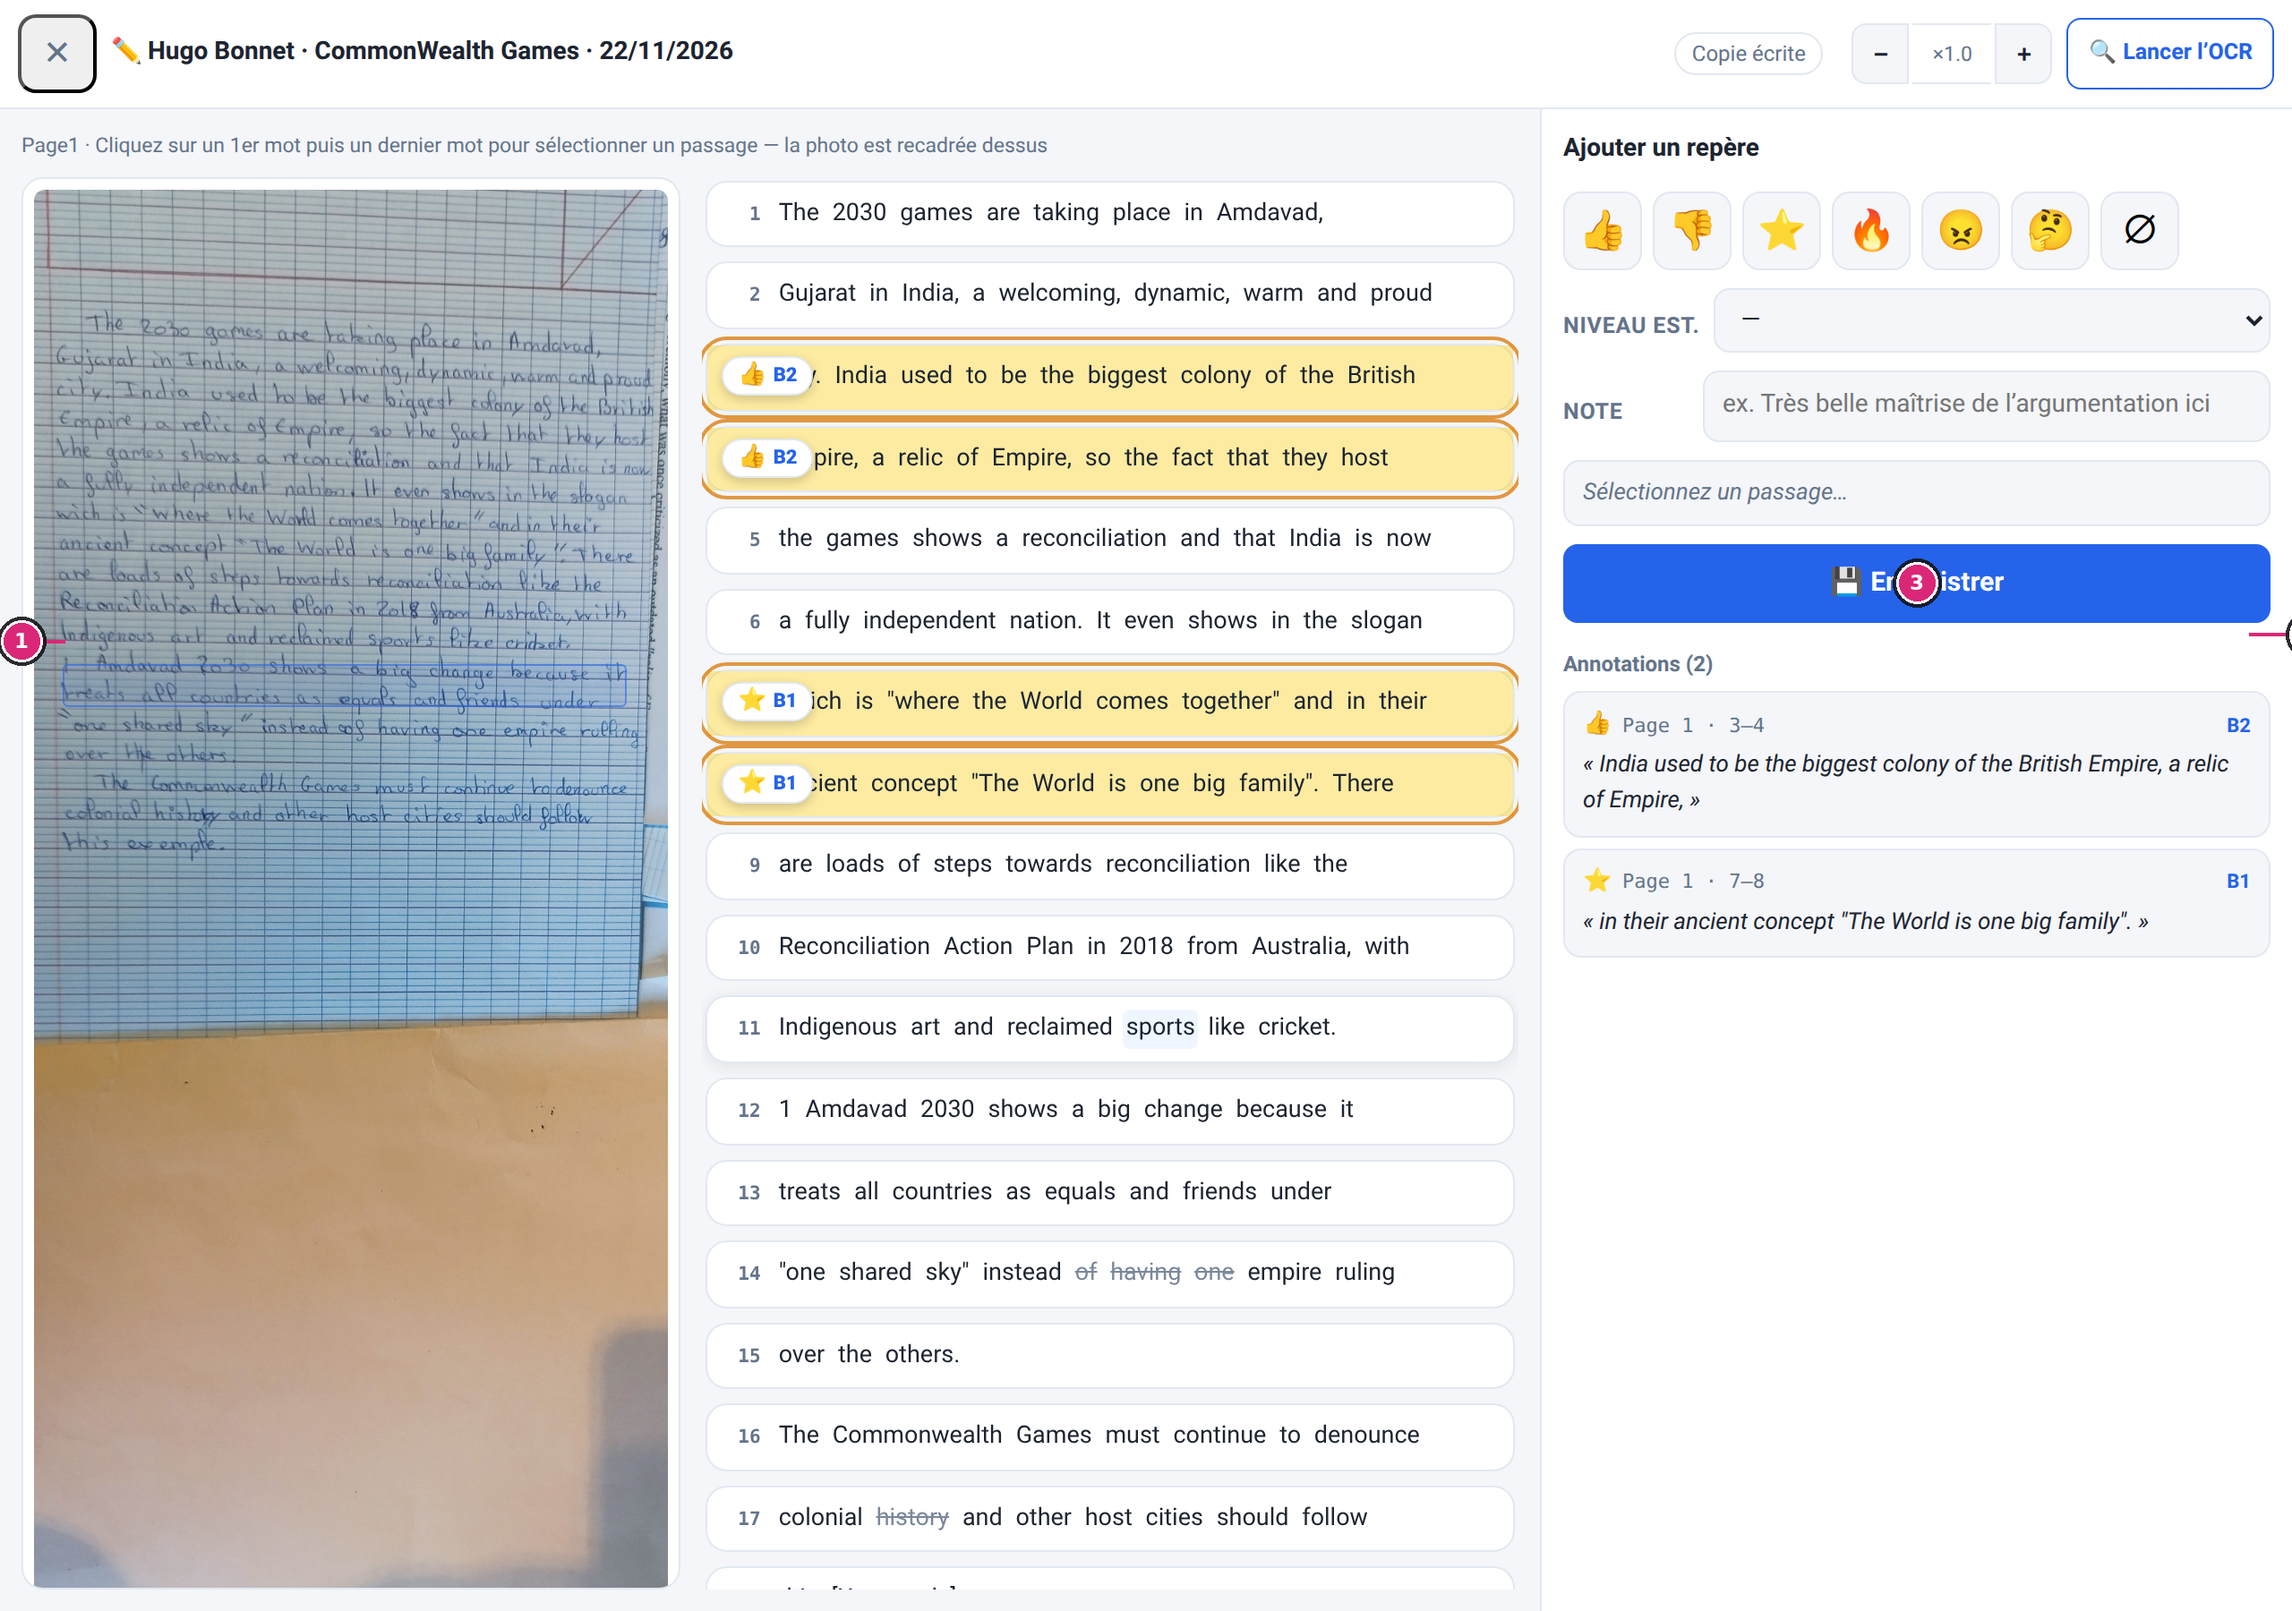
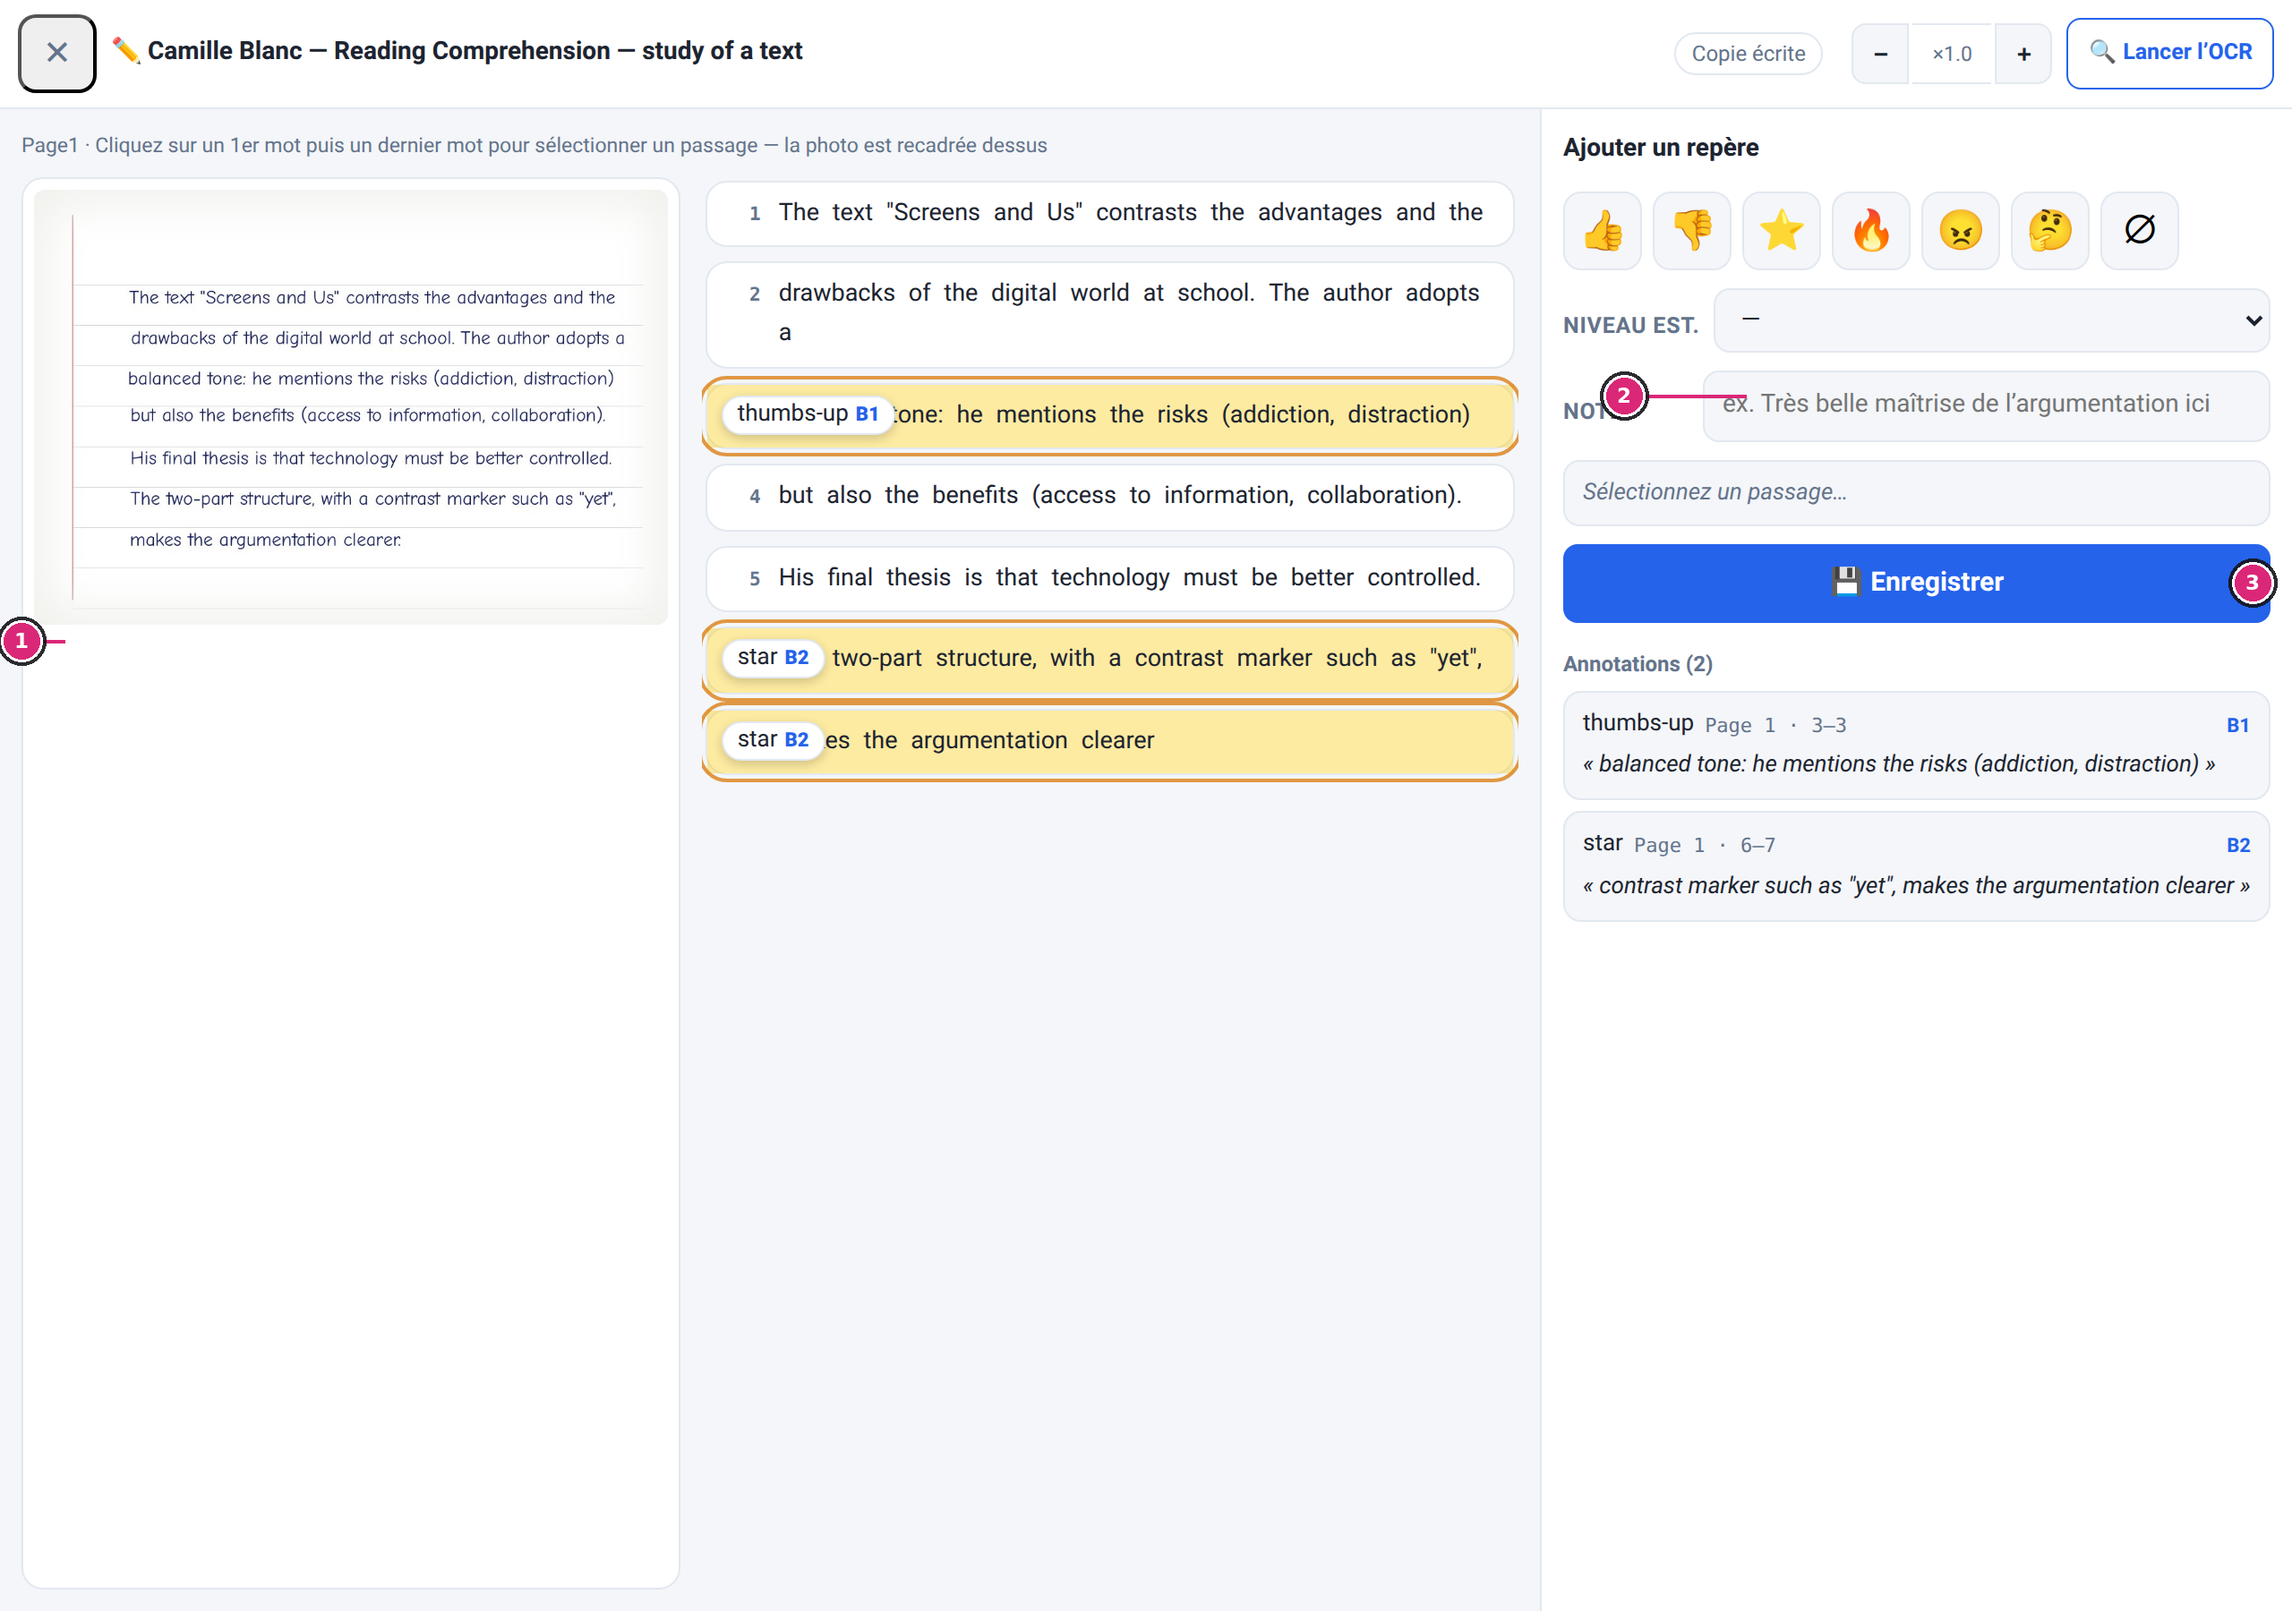
Userguide §7 : capture Annoter sur copie synthétique (plus de vraie copie élève)
La copie d'écran du §7 « Annoter » montrait une vraie photo manuscrite
d'élève (analyse 660). Remplacée par la copie de fixture synthétique
(Camille Blanc, analyse 482 / sub 492, page quadrillée rendue PIL) qui ne
contient aucun travail d'élève réel.

- scripts/ug_capture.py : le §15 deep-link vers #history/482 au lieu de 660.
- 2 repères de démo seedés via API (seed_annotate_demo, idempotent) pour que
  le panneau Annoter montre des lignes surlignées + "Annotations (2)" :
  👍 B1 sur "balanced tone…" et ⭐ B2 sur "contrast marker…".
- 2 nouveaux modes de badge ('below', 'edge') + re-pointage des badges 1/2/3
  du §7 sur des zones libres (le badge 2 était rogné au bord droit, le 3
  recouvrait le label "Enregistrer").

Le site (GitHub Pages) se reconstruit et redéploie automatiquement sur push.

diff --git a/scripts/ug_capture.py b/scripts/ug_capture.py
@@ -45,6 +45,42 @@ def find_font():
 FONT = find_font()
 
 
+def seed_annotate_demo(ctx, sub_id: int) -> int:
+    """Idempotently create the 2 demo annotations shown in the userguide §7
+    shot (analysis 482 / submission 492 = synthetic fixture copy).
+
+    The docs must NOT ship a real student's handwritten photo, so the §7
+    screenshot uses the synthetic fixture copy. That shot only looks right
+    when 2 repères are already saved (highlighted lines + a non-empty
+    "Annotations (2)" list). This seeds them via the app's own API so the
+    capture stays reproducible after a DB reset. No-op when >=2 annotations
+    already exist on the submission.
+
+    Spans are word-index based (global index into the page's word list, same
+    order as the frontend tokenization); the quote is derived server-side.
+    Returns the annotation count afterwards.
+    """
+    api = ctx.request
+    r = api.get(f"{BASE}/api/submissions/{sub_id}/annotations")
+    if r.status != 200:
+        return 0
+    cur = len(r.json().get("annotations", []))
+    if cur >= 2:
+        return cur
+    demo = [
+        {"span": {"page": 0, "start_word": 21, "end_word": 28}, "sticker": "thumbs-up",
+         "level": "B1", "note": "Très belle nuance : « balanced tone » est bien repéré et nuancé."},
+        {"span": {"page": 0, "start_word": 52, "end_word": 60}, "sticker": "star",
+         "level": "B2", "note": "Belle analyse de la structure : le connecteur « yet » est identifié et justifié."},
+    ]
+    for d in demo:
+        body = dict(d)
+        body["kind"] = "written"
+        api.post(f"{BASE}/api/submissions/{sub_id}/annotations", json=body)
+    r = api.get(f"{BASE}/api/submissions/{sub_id}/annotations")
+    return len(r.json().get("annotations", [])) if r.status == 200 else 0
+
+
 def annotate(name, shots, boxes):
     """shots: list of (path, css_w, css_h); boxes: {n: (label, [x,y,w,h], mode)}
     Draws small numbered badges (no label chips) on the LAST shot; the legend
@@ -57,6 +93,10 @@ def annotate(name, shots, boxes):
     mode = 'top':      badge in the top   margin, connector to (x + w*0.5, y)
     mode = 'on':       badge centered ON the element (no connector) — for small
                        header pills where there is no free margin
+    mode = 'below':    badge BELOW the element, connector up to (x + w*0.5, y + h)
+    mode = 'edge':     badge on the element's RIGHT EDGE (no connector) — for wide
+                       buttons whose label is centred, so the badge sits on the
+                       button's empty right portion instead of covering the label
     """
     last = shots[-1]
     path, cw, ch = last
@@ -75,6 +115,35 @@ def annotate(name, shots, boxes):
             cy = int(px(y + h * 0.5))
             cx = max(r + 4, min(im.width - r - 4, cx))
             cy = max(r + 4, min(im.height - r - 4, cy))
+            dr.ellipse([cx - r - 7, cy - r - 7, cx + r + 7, cy + r + 7], fill=RING_DARK)
+            dr.ellipse([cx - r - 3, cy - r - 3, cx + r + 3, cy + r + 3], fill=RING_WHITE)
+            dr.ellipse([cx - r, cy - r, cx + r, cy + r], fill=MAGENTA + (255,))
+            fnt = ImageFont.truetype(FONT, int(r * 1.15)) if FONT else ImageFont.load_default()
+            bb = dr.textbbox((0, 0), str(n), font=fnt)
+            dr.text((cx - (bb[2] - bb[0]) / 2, cy - (bb[3] - bb[1]) / 2 - bb[1]),
+                    str(n), fill="white", font=fnt)
+            continue
+        if mode == "edge":
+            # no connector; badge at the element's right edge, vertically centred
+            cx = int(px(x + w) - 10 * DSF)
+            cy = int(px(y + h * 0.5))
+            cx = max(r + 4, min(im.width - r - 4, cx))
+            cy = max(r + 4, min(im.height - r - 4, cy))
+            dr.ellipse([cx - r - 7, cy - r - 7, cx + r + 7, cy + r + 7], fill=RING_DARK)
+            dr.ellipse([cx - r - 3, cy - r - 3, cx + r + 3, cy + r + 3], fill=RING_WHITE)
+            dr.ellipse([cx - r, cy - r, cx + r, cy + r], fill=MAGENTA + (255,))
+            fnt = ImageFont.truetype(FONT, int(r * 1.15)) if FONT else ImageFont.load_default()
+            bb = dr.textbbox((0, 0), str(n), font=fnt)
+            dr.text((cx - (bb[2] - bb[0]) / 2, cy - (bb[3] - bb[1]) / 2 - bb[1]),
+                    str(n), fill="white", font=fnt)
+            continue
+        if mode == "below":
+            tx = px(x + w * 0.5)
+            cx = max(r + 4, min(im.width - r - 4, tx))
+            cy = px(y + h) + 36 * DSF
+            cy = max(r + 4, min(im.height - r - 4, cy))
+            ty = px(y + h)
+            dr.line([(cx, cy), (tx, ty)], fill=MAGENTA + (255,), width=max(2, r // 5))
             dr.ellipse([cx - r - 7, cy - r - 7, cx + r + 7, cy + r + 7], fill=RING_DARK)
             dr.ellipse([cx - r - 3, cy - r - 3, cx + r + 3, cy + r + 3], fill=RING_WHITE)
             dr.ellipse([cx - r, cy - r, cx + r, cy + r], fill=MAGENTA + (255,))
@@ -448,23 +517,27 @@ def main():
                   3: (labels[3], boxes[2], "left")})
         shots_log.append(("report-oral", "Rapport oral"))
 
-        # ---- 15. annoter dual pane (from 660)
-        pg.goto(BASE + "/#history/660", wait_until="networkidle")
+        # ---- 15. annoter dual pane (482 = Camille Blanc, SYNTHETIC fixture
+        #         copy + 2 pre-seeded annotations — docs must NOT ship a real
+        #         student's handwritten photo; 660 was a real copy)
+        n_ann = seed_annotate_demo(ctx, 492)
+        print(f"seeded/checked demo annotations on sub 492: {n_ann}")
+        pg.goto(BASE + "/#history/482", wait_until="networkidle")
         pg.wait_for_timeout(1600)
         pg.evaluate("(() => { const b = document.querySelector('[data-annot-open]'); if (b) b.click(); })()")
         pg.wait_for_timeout(1500)
         path, w, h = shoot(pg, "annotate", 1280, 900)
         boxes = get_boxes(pg, [
             "(() => { const e = document.querySelector('#an-written .ph-box, #an-written img, #an-written'); const r = e ? e.getBoundingClientRect() : null; return r ? [Math.round(r.x), Math.round(r.y), Math.round(r.width), Math.round(r.height)] : null; })()",
-            "(() => { const e = document.querySelector('.an-panel, #an-panel'); const r = e ? e.getBoundingClientRect() : null; return r ? [Math.round(r.x), Math.round(r.y), Math.round(r.width), Math.round(r.height)] : null; })()",
+            "(() => { const e = document.getElementById('an-note'); const r = e ? e.getBoundingClientRect() : null; return r ? [Math.round(r.x), Math.round(r.y), Math.round(r.width), Math.round(r.height)] : null; })()",
             "(() => { const e = document.getElementById('an-save'); const r = e ? e.getBoundingClientRect() : null; return r ? [Math.round(r.x), Math.round(r.y), Math.round(r.width), Math.round(r.height)] : null; })()",
         ])
         labels = {1: "Photo de la copie (lignes OCR cliquables)", 2: "Panneau d'annotation (niveau + note)",
                   3: "Enregistrer le repère"}
         annotate("annotate", [(path, w, h)],
                  {1: (labels[1], boxes[0], "left"),
-                  2: (labels[2], boxes[1], "right"),
-                  3: (labels[3], boxes[2], "on")})
+                  2: (labels[2], boxes[1], "left"),
+                  3: (labels[3], boxes[2], "edge")})
         shots_log.append(("annotate", "Annoter (double panneau)"))
 
         # ---- 16. mobile criterion picker (390 portrait, 672 context)
